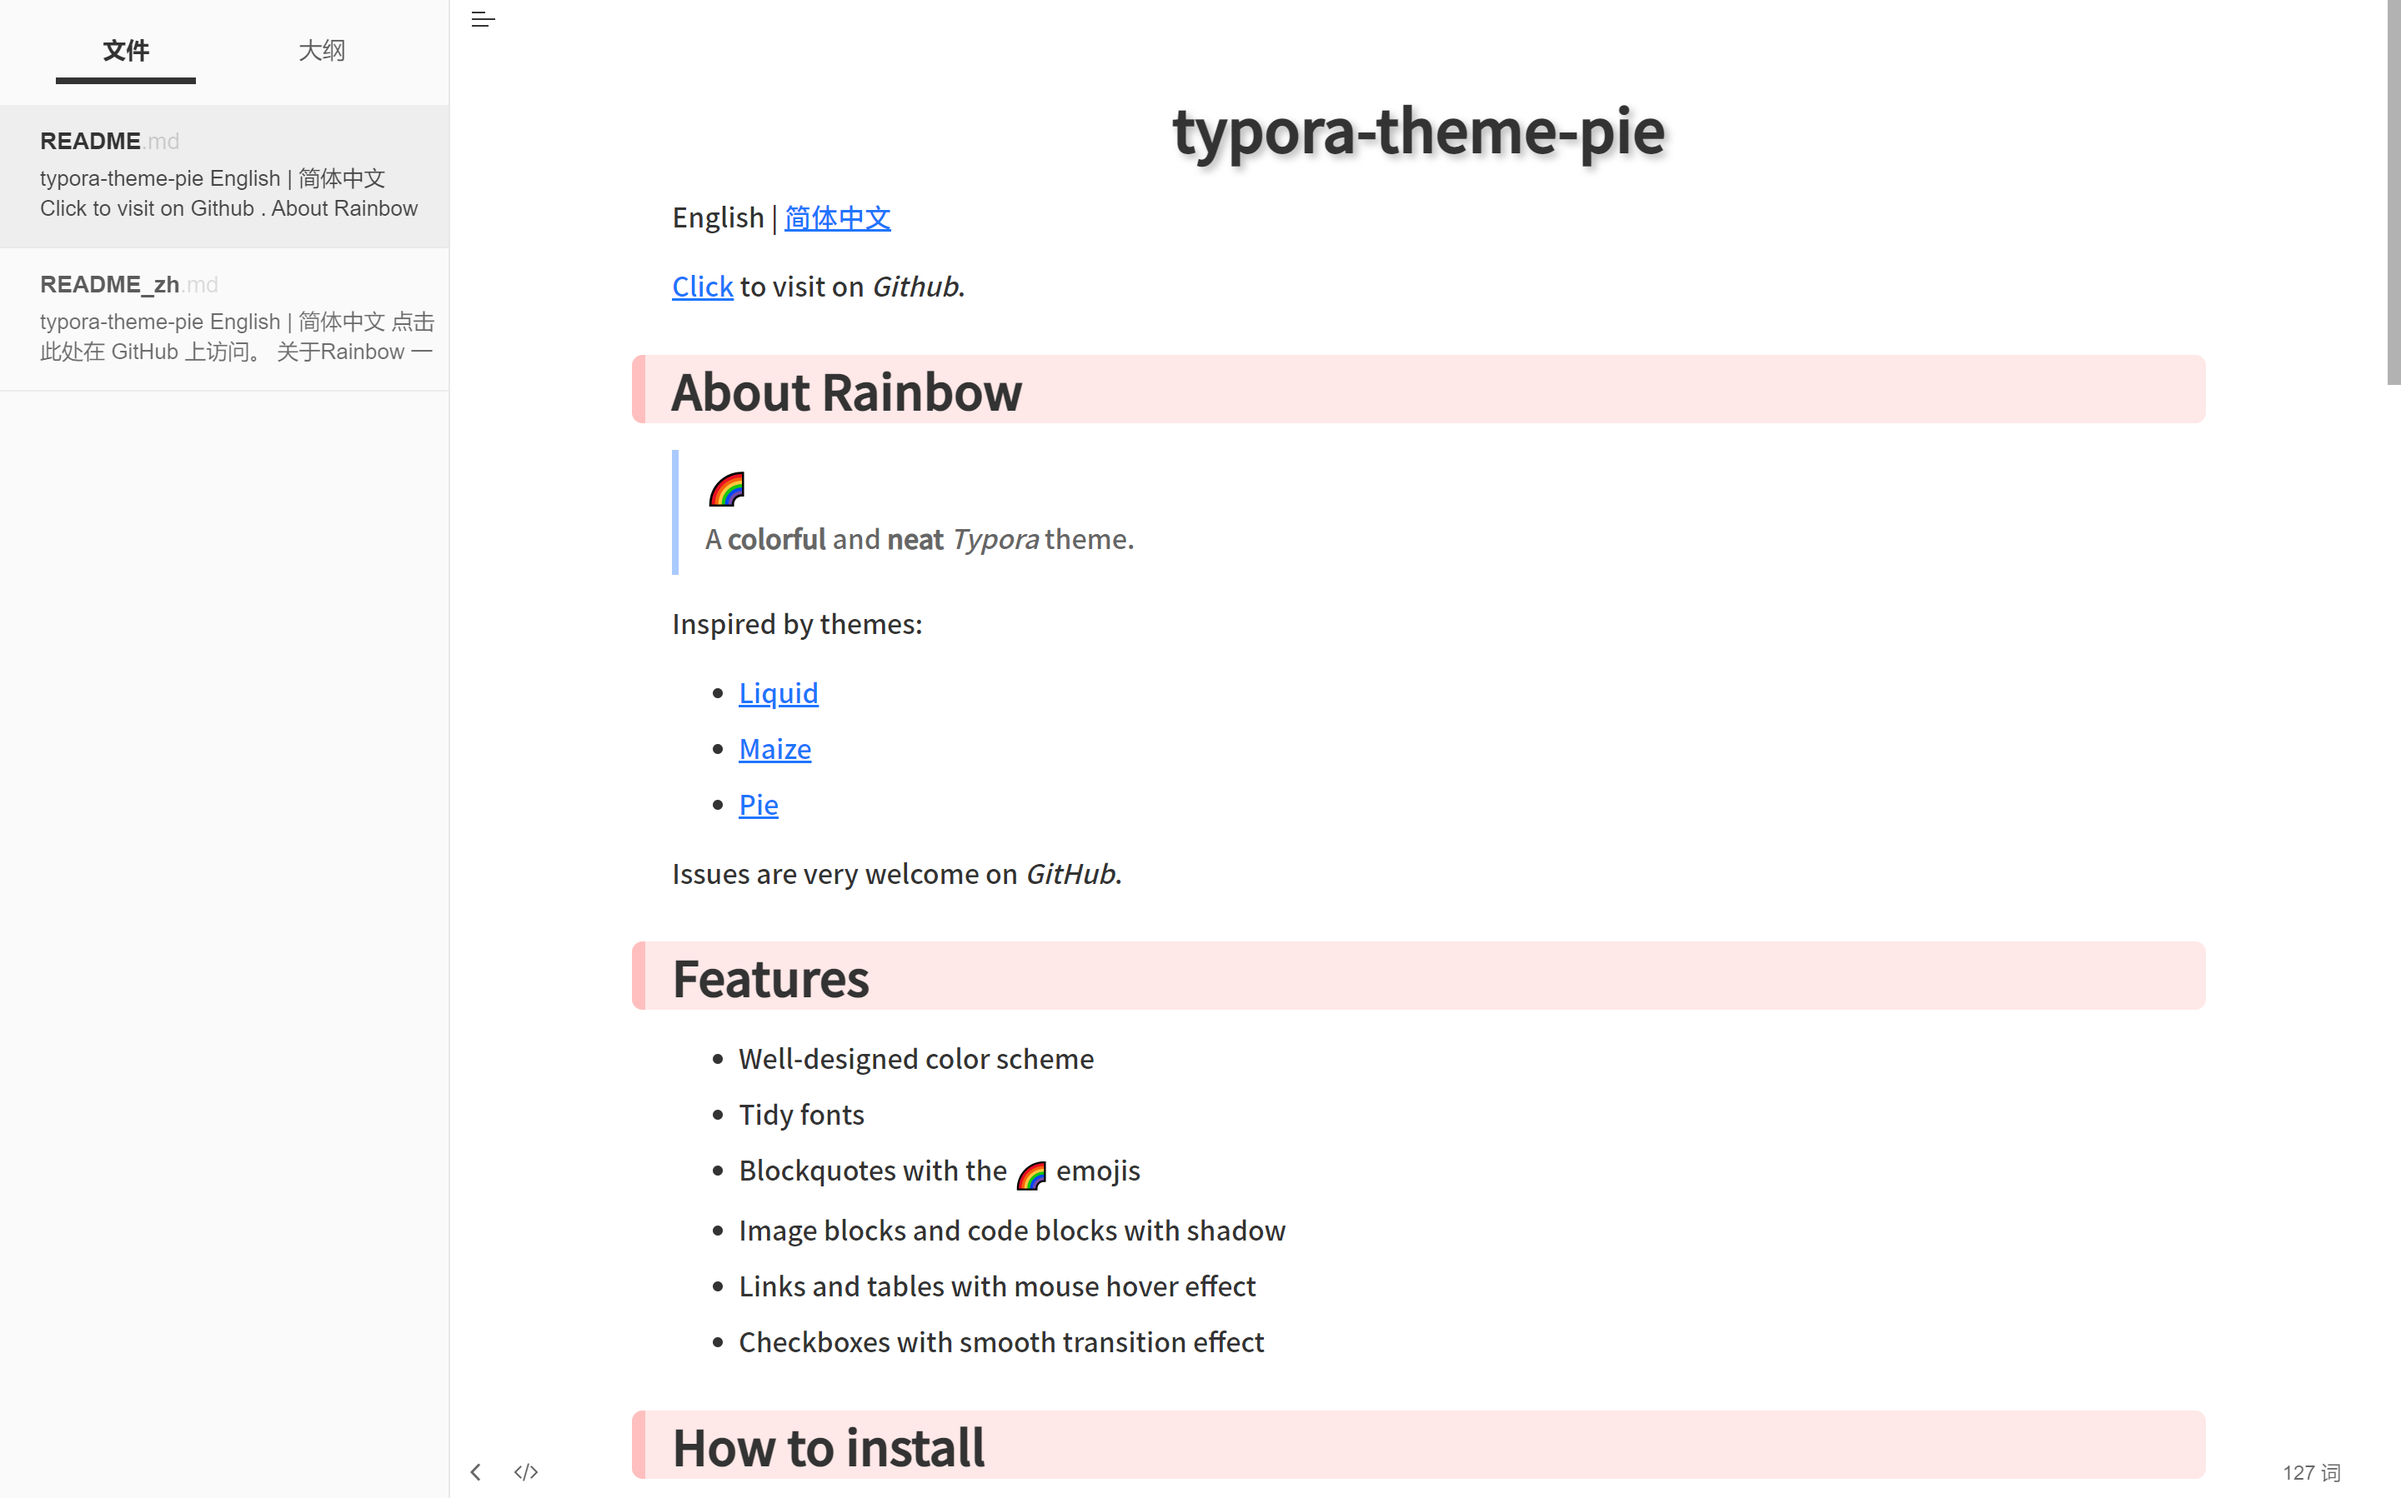
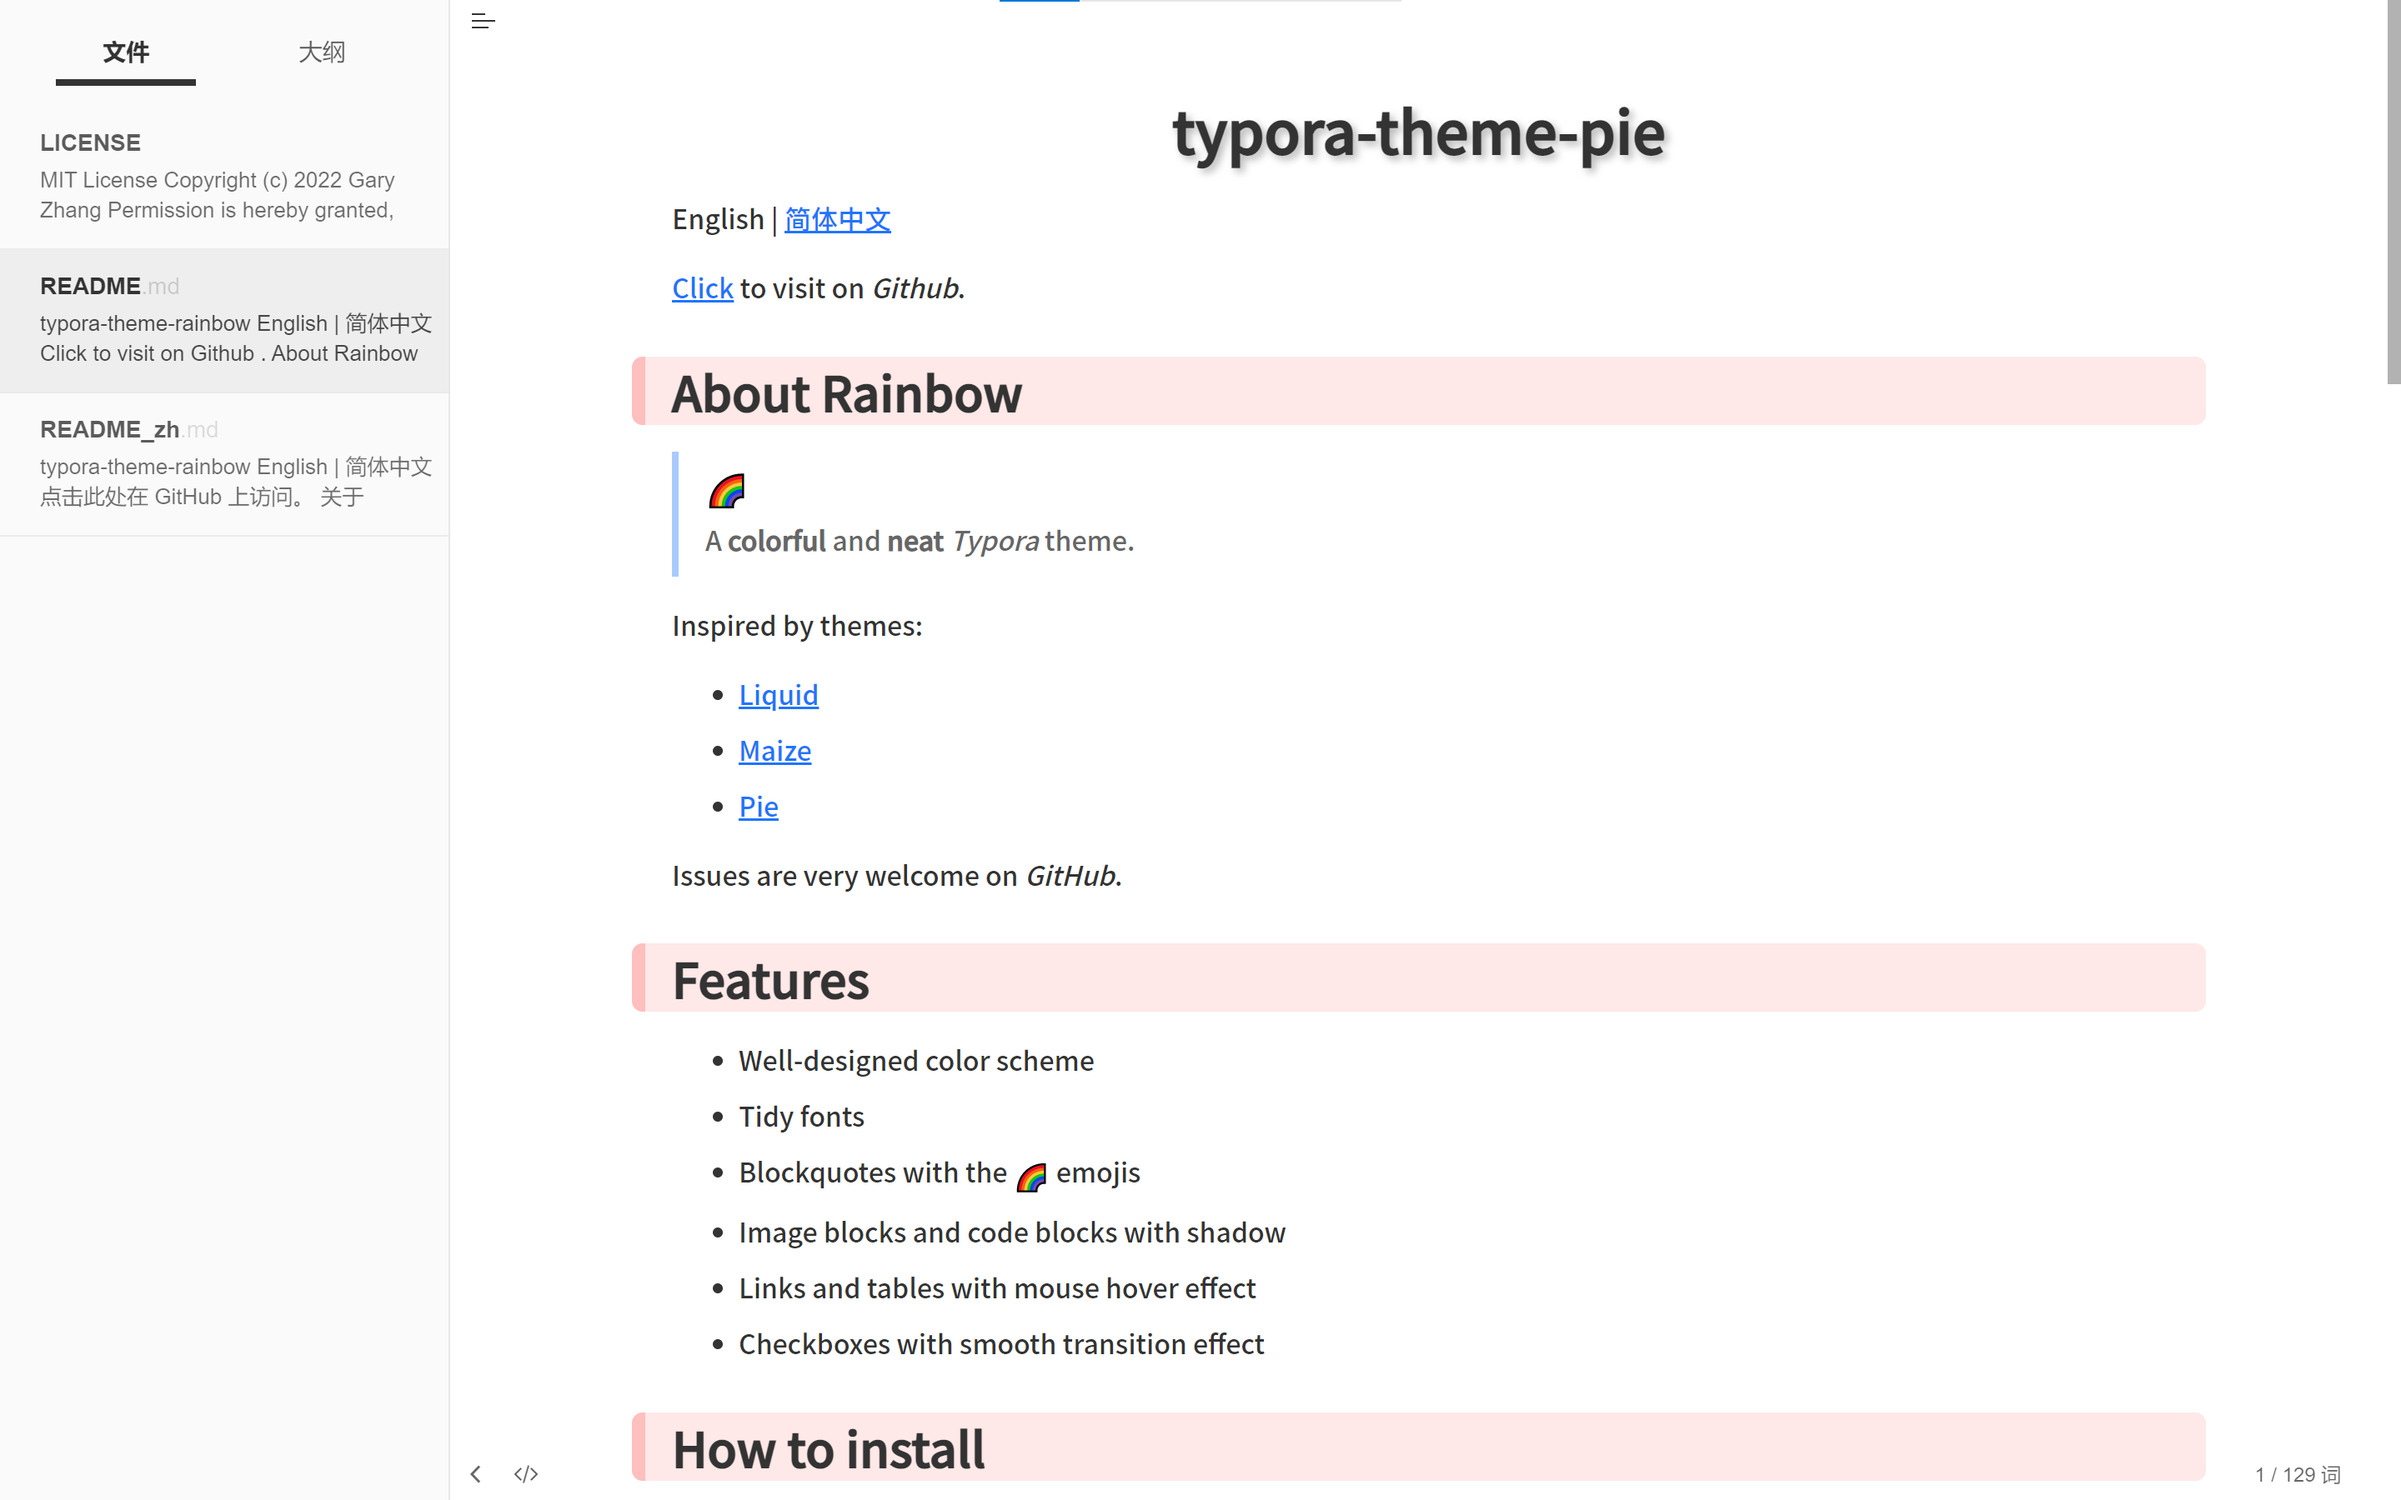
update READMEs

diff --git a/README.md b/README.md
@@ -1,4 +1,4 @@
-# typora-theme-pie
+# typora-theme-rainbow
 
 English | [简体中文](README_zh.md)
 

diff --git a/README_zh.md b/README_zh.md
@@ -1,4 +1,4 @@
-# typora-theme-pie
+# typora-theme-rainbow
 
 [English](README.md) | 简体中文
 
